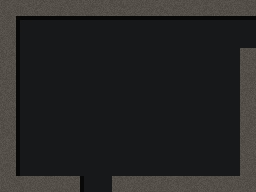
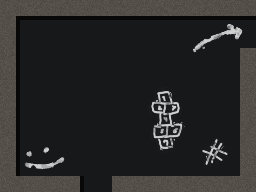
added creepy background images

diff --git a/Panel.java b/Panel.java
@@ -14,6 +14,7 @@ public class Panel extends JPanel {
   public static final Color BG_COLOR = Color.decode("0x181819");
 
   final int UPDATE_MS = 50;
+  double TIMER = 0;
 
   final Random random = new Random();
 
@@ -228,6 +229,8 @@ public class Panel extends JPanel {
 
   public class TimerListener implements ActionListener {
     public void actionPerformed(ActionEvent e) {
+      TIMER += UPDATE_MS / 1000.0;
+
       updatePlayer();
       if (player.health <= 0) return;
       updateBullet();
@@ -441,6 +444,13 @@ public class Panel extends JPanel {
     }
 
     drawHealthBar(g);
+
+    int minutes = (int)TIMER / 60;
+    int seconds = (int)(TIMER % 60);
+    int ms = (int)((TIMER % 1) * 100);
+    g.setColor(Color.WHITE);
+    g.setFont(getFont().deriveFont(32f));
+    g.drawString(String.format("%02d:%02d:%02d", minutes, seconds, ms), 10, 752);
 
     // DEBUG! View bounding boxes of walls:
     // for (Rect r : screens[currentScreen].walls.walls) {
